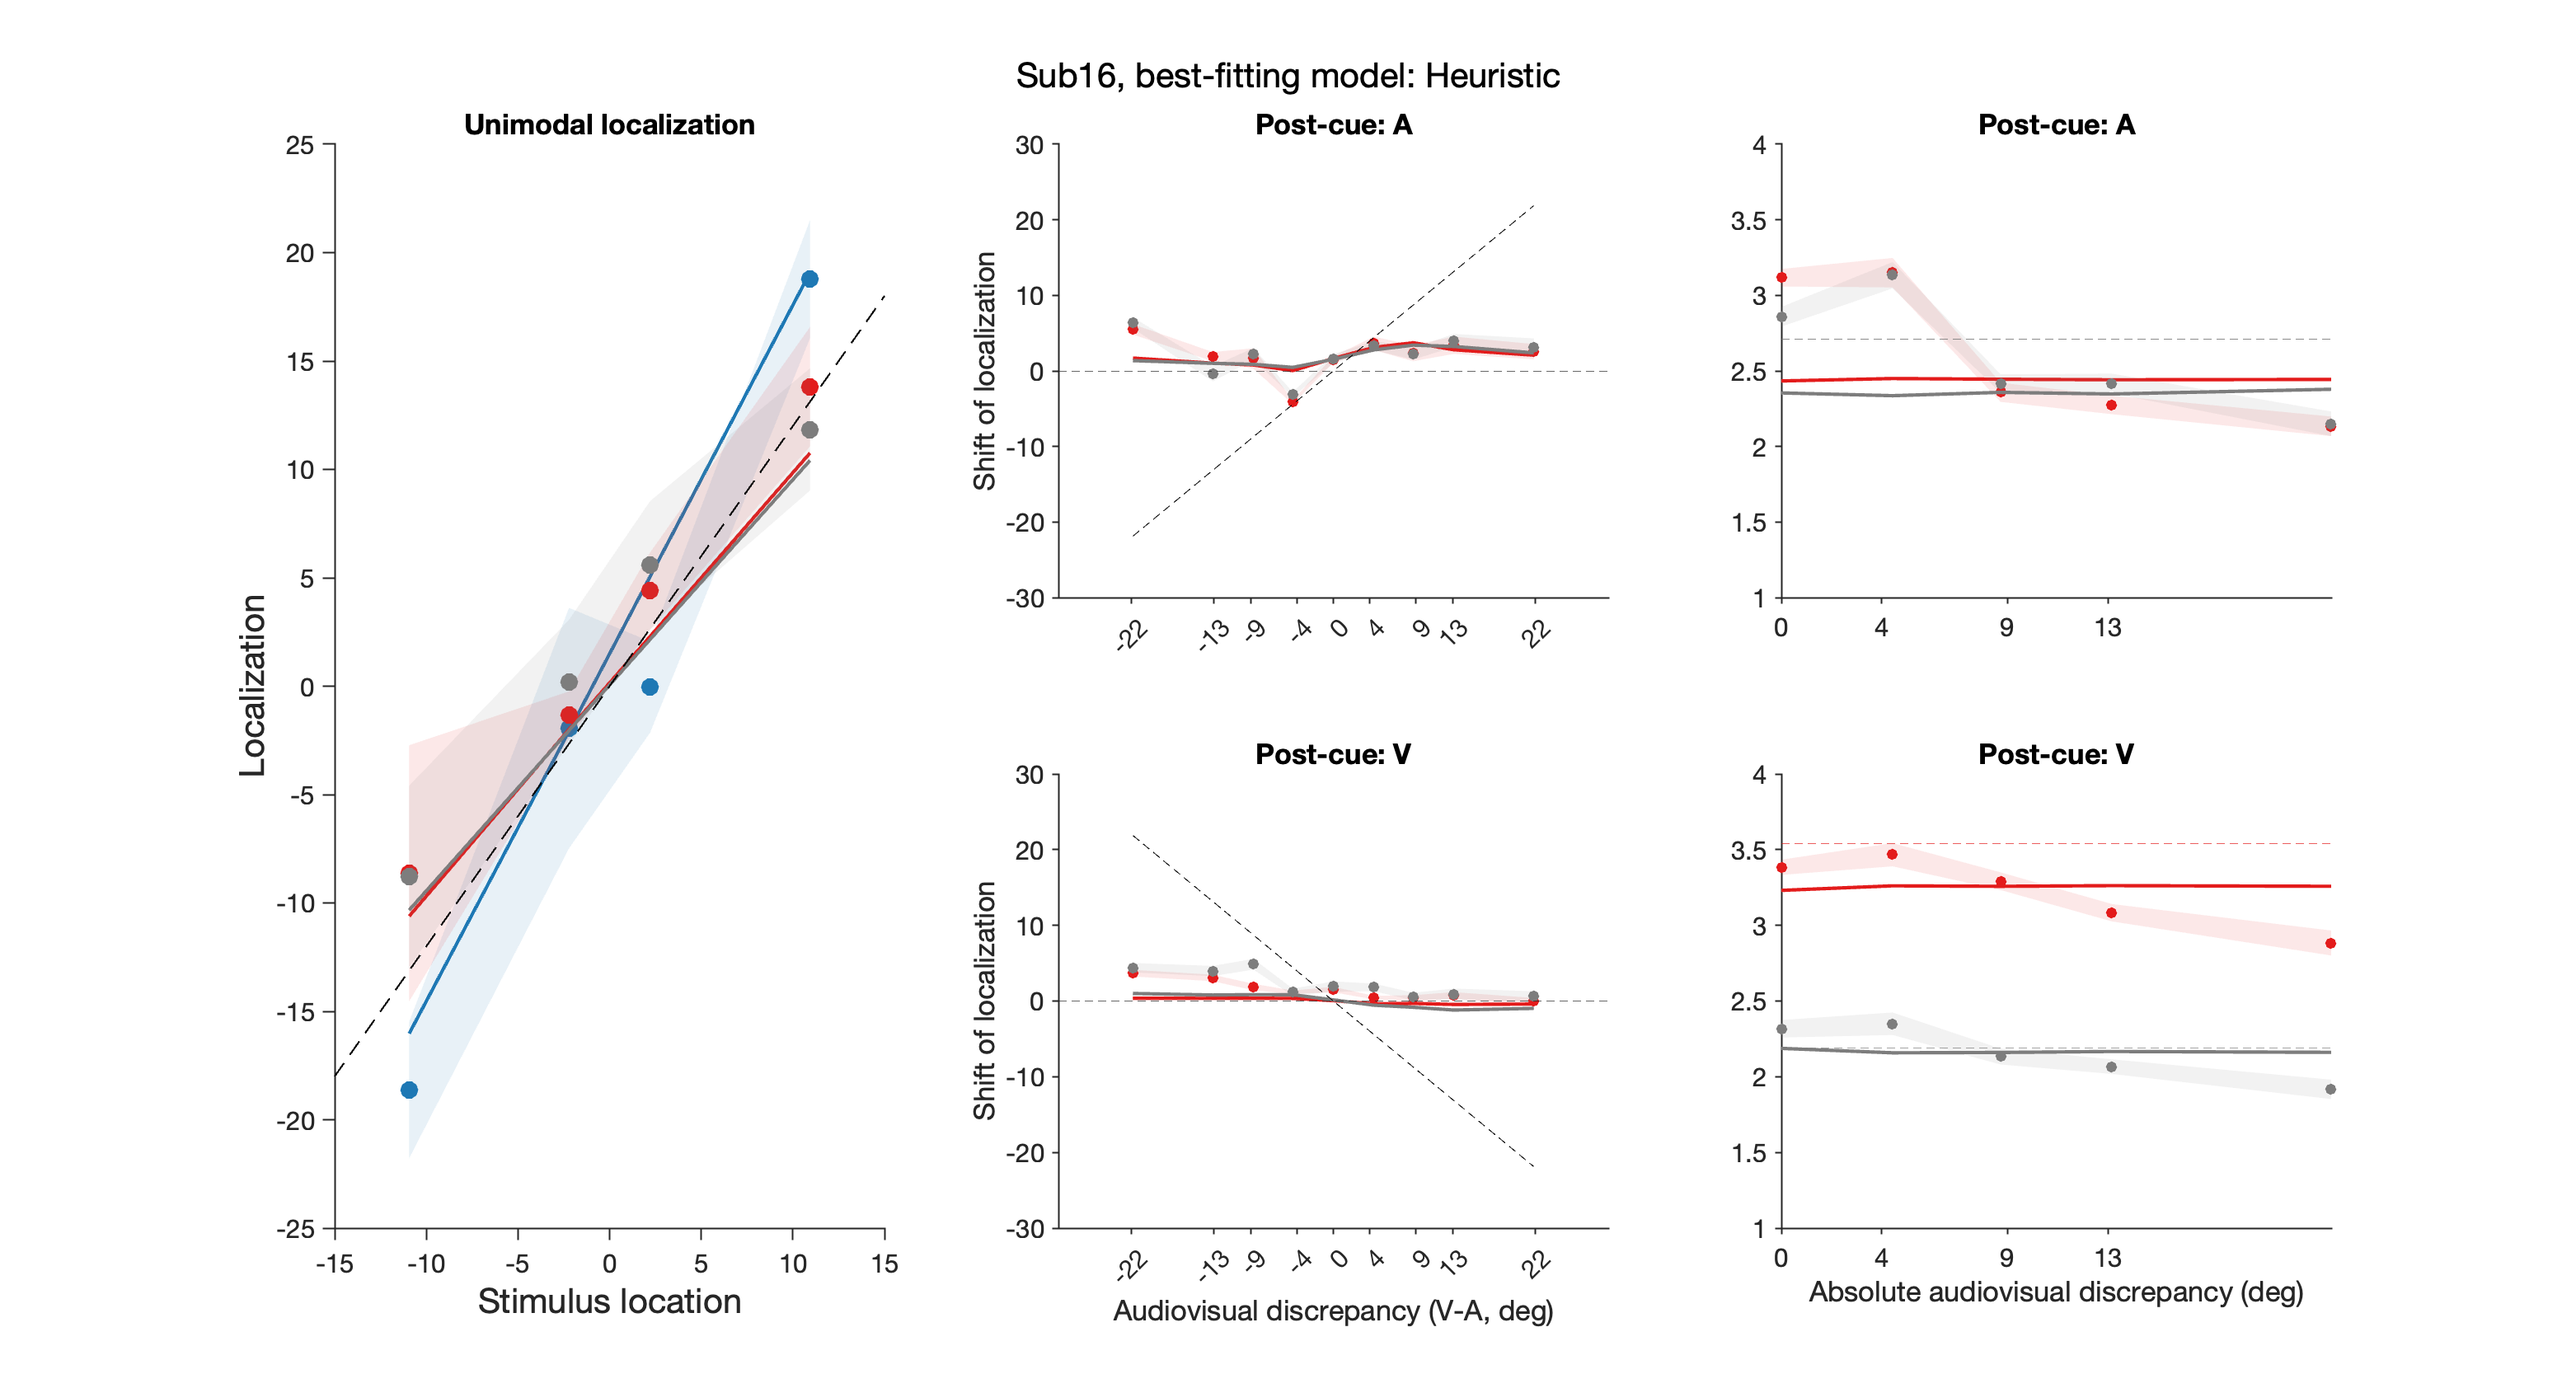
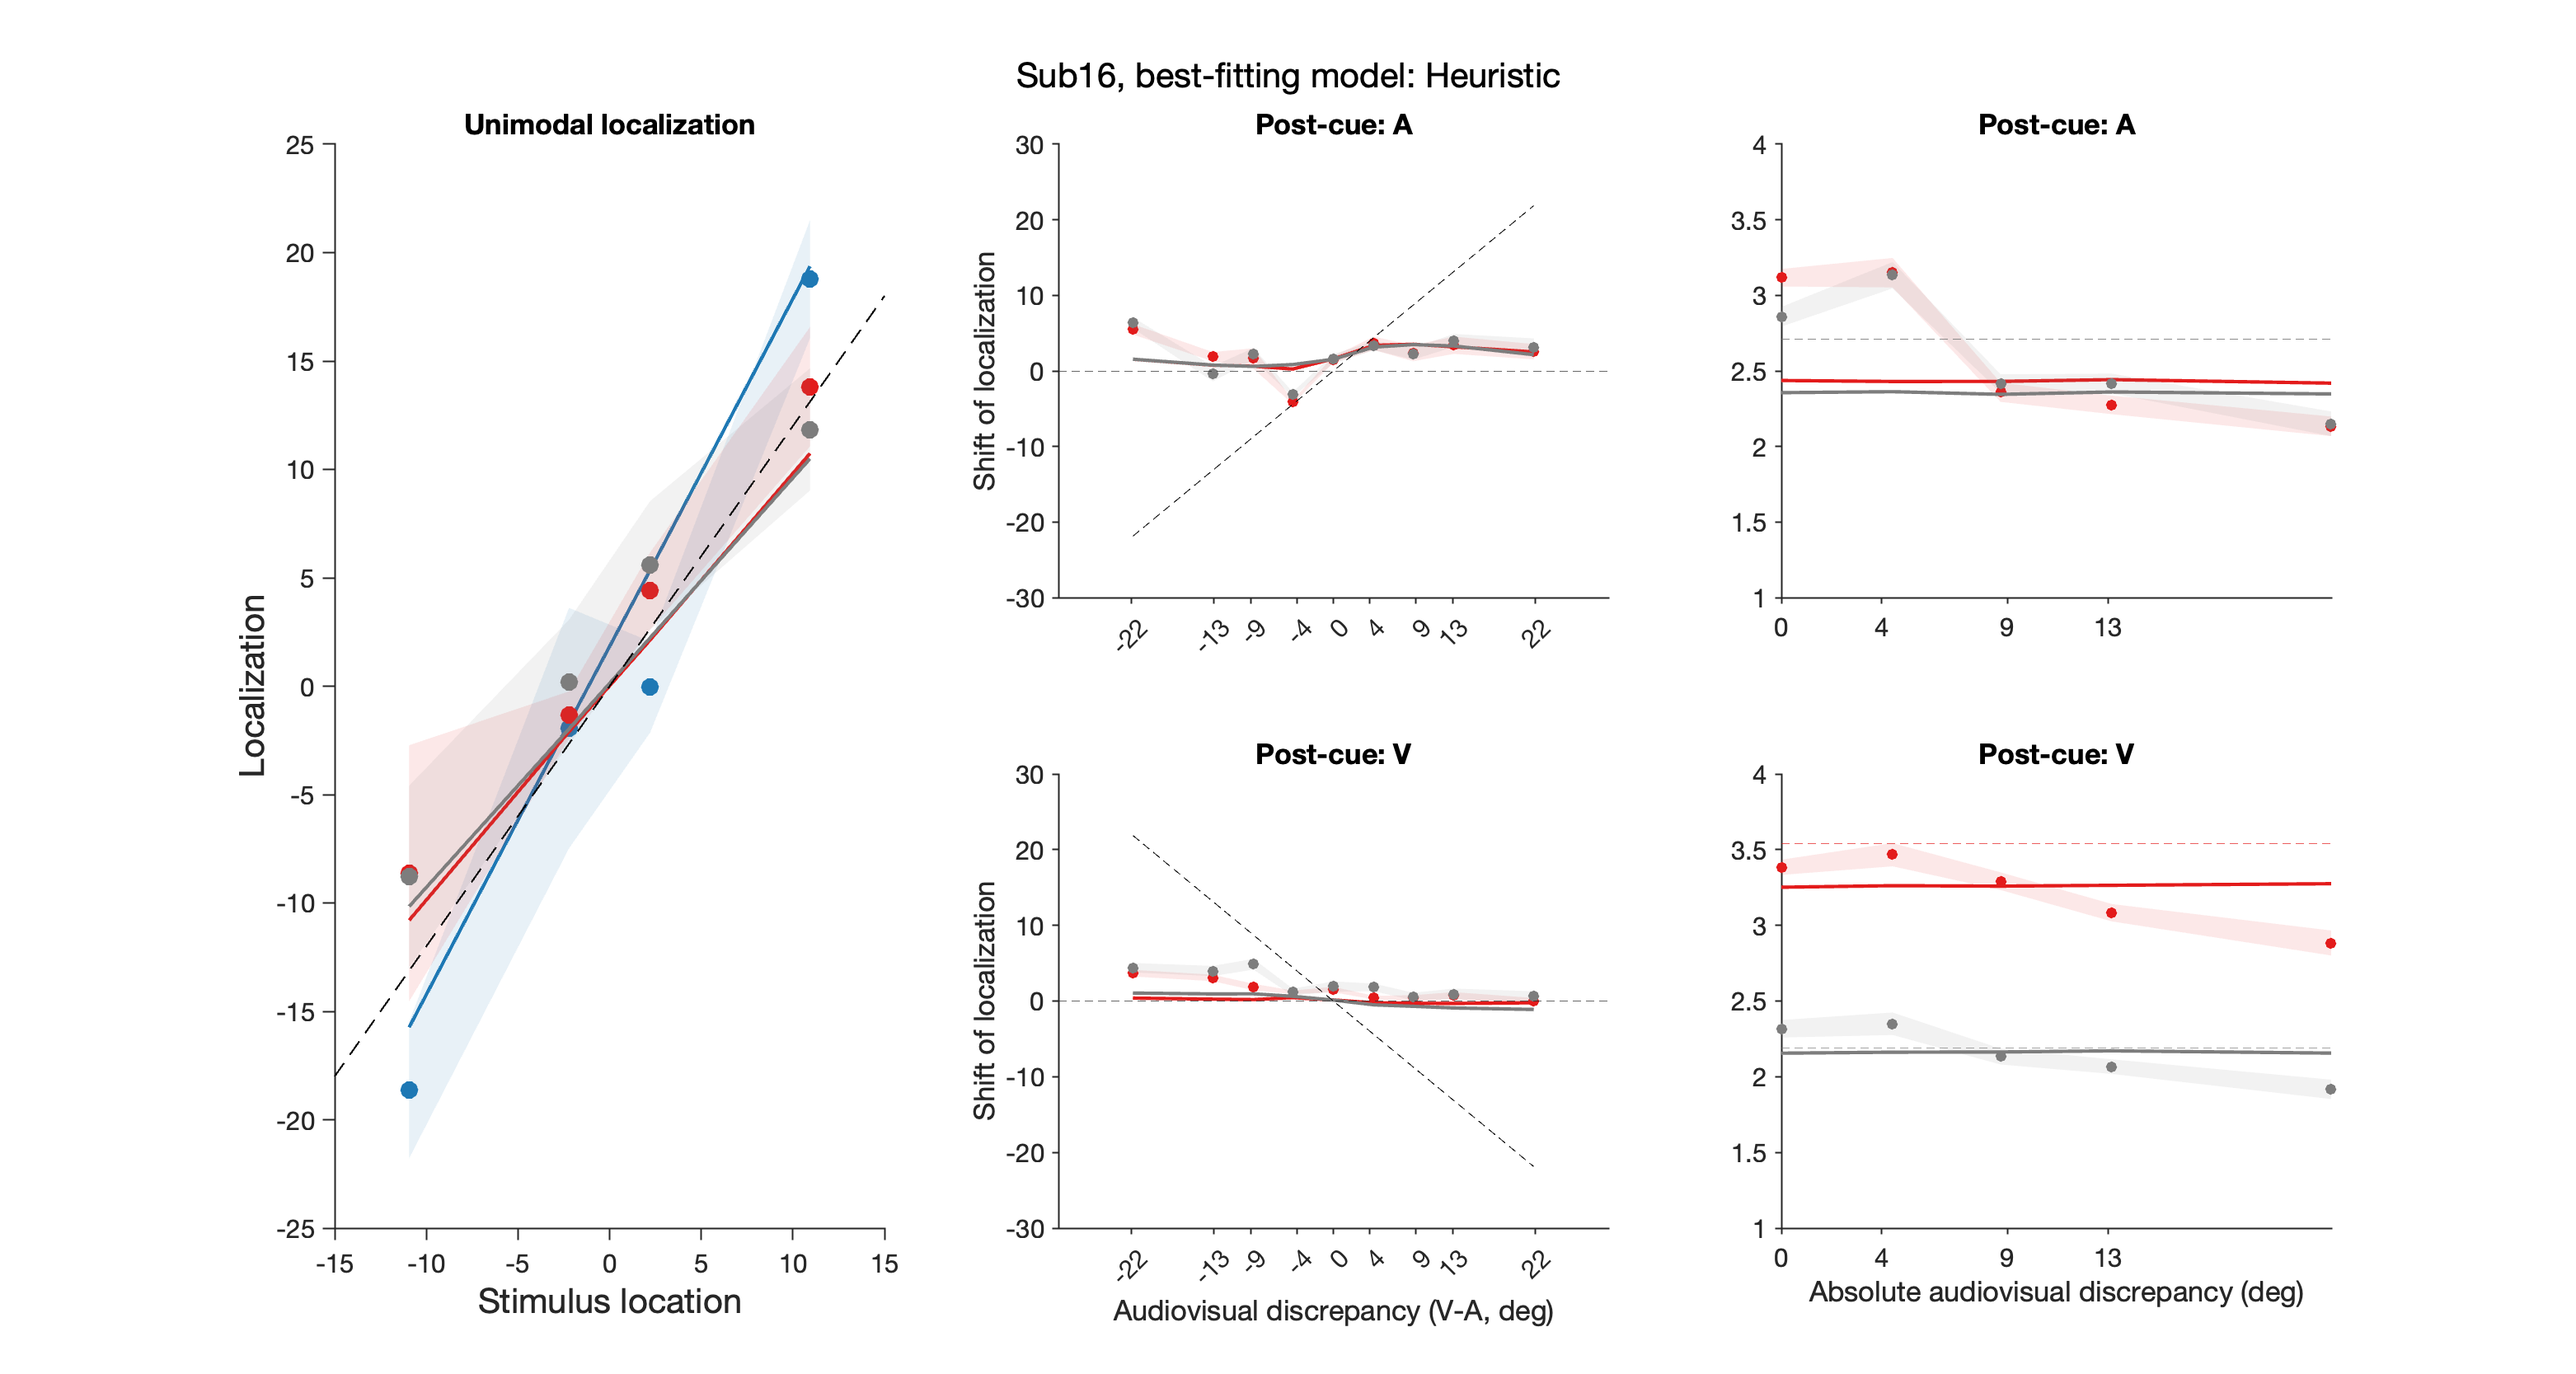
fit sub13

diff --git a/modelFit/uniBiLocV8_2stage_sharedSigma_4C/plotModelPrediction.m b/modelFit/uniBiLocV8_2stage_sharedSigma_4C/plotModelPrediction.m
@@ -1,6 +1,6 @@
 clear; close all; rng('shuffle');
 
-sub_slc = 16;
+sub_slc = 13;
 ses_slc = 1:3; % bimodal sessions
 
 models = {'Heuristic','Suboptimal','Optimal'};
@@ -36,7 +36,7 @@ load(files(end).name);
 % winning model?
 [~, d] = min([saveConfModel{1}.minNLL, saveConfModel{2}.minNLL, saveConfModel{3}.minNLL]);
 
-d = 2;
+% d = 2;
 % use the best-fitting parameter and winning model
 p = saveConfModel{d}.bestP;
 model.mode = 'predict';
